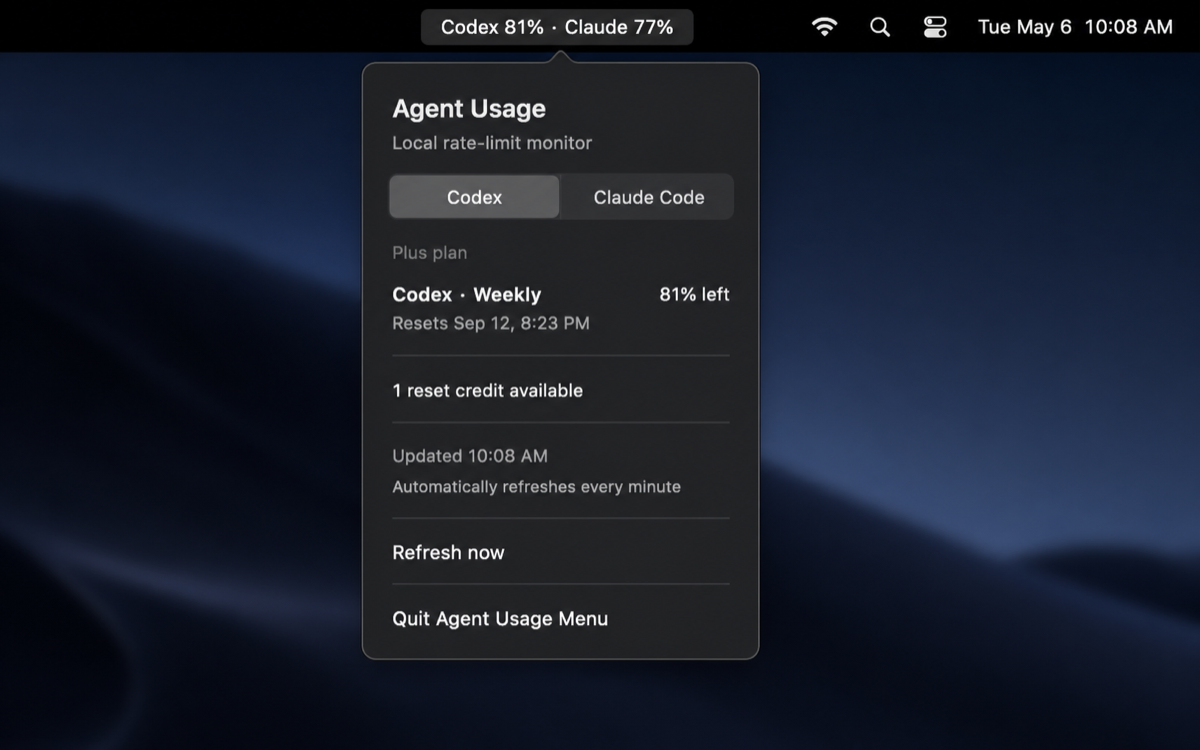
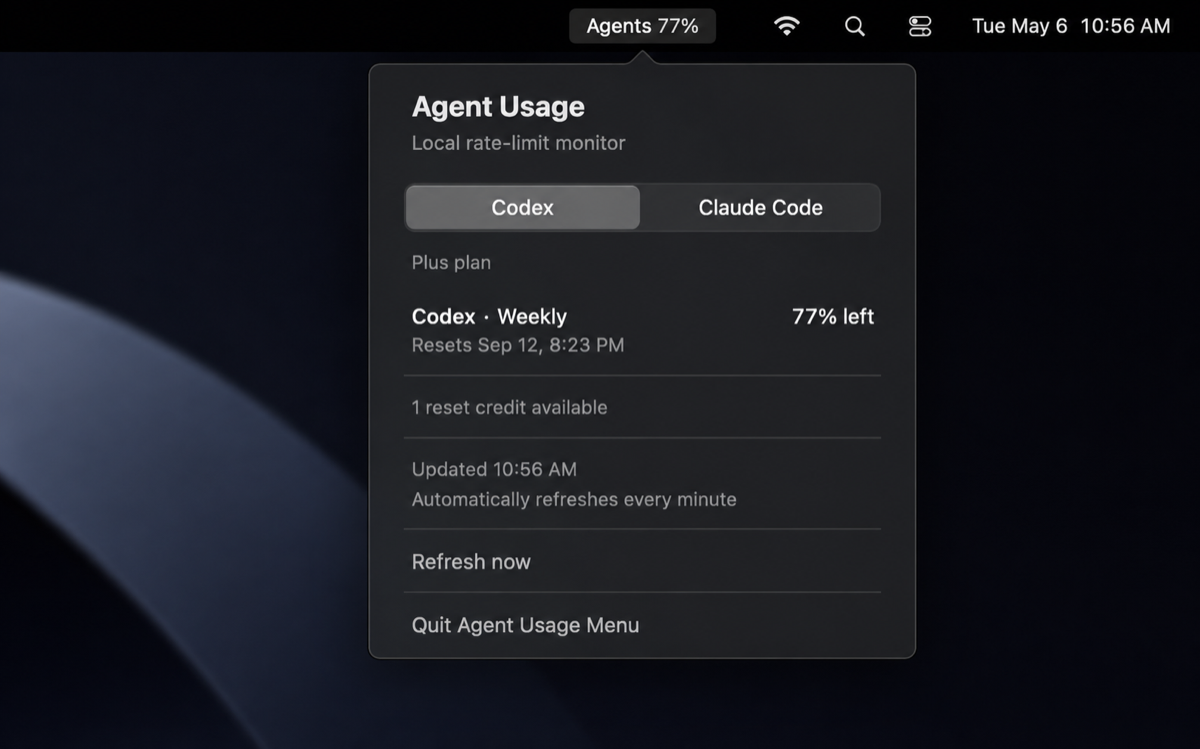
Add persistent agent launcher and npm package

diff --git a/Sources/CodexUsageMenu/main.swift b/Sources/CodexUsageMenu/main.swift
@@ -1,9 +1,10 @@
 import AppKit
+import Darwin
 import Foundation
 import SwiftUI
 
 @main
-struct CodexUsageMenuApp: App {
+struct AgentUsageMenuApp: App {
     @StateObject private var monitor = UsageMonitor()
 
     var body: some Scene {
@@ -84,6 +85,8 @@ private struct UsageMenu: View {
         }
         if let claude = monitor.claudeSnapshot {
             available.append(Provider(id: .claude, presentation: claude.presentation))
+        } else if monitor.isClaudeCodeInstalled {
+            available.append(Provider(id: .claude, presentation: ClaudeUsageStore.waitingPresentation))
         }
         return available
     }
@@ -114,27 +117,35 @@ private struct UsageMenu: View {
                     .padding(.top, 14)
             }
 
-            ForEach(provider.windows) { window in
-                VStack(alignment: .leading, spacing: 4) {
-                    HStack(alignment: .firstTextBaseline) {
-                        Text(window.name)
-                            .font(.system(size: 14, weight: .semibold))
-                        Spacer()
-                        Text("\(window.remainingPercent)% left")
-                            .font(.system(size: 14, weight: .semibold))
-                            .monospacedDigit()
+            if provider.windows.isEmpty {
+                Text(provider.emptyMessage ?? "Usage is not available yet.")
+                    .font(.system(size: 13))
+                    .foregroundStyle(.secondary)
+                    .frame(maxWidth: .infinity, alignment: .leading)
+                    .padding(.vertical, 18)
+            } else {
+                ForEach(provider.windows) { window in
+                    VStack(alignment: .leading, spacing: 4) {
+                        HStack(alignment: .firstTextBaseline) {
+                            Text(window.name)
+                                .font(.system(size: 14, weight: .semibold))
+                            Spacer()
+                            Text("\(window.remainingPercent)% left")
+                                .font(.system(size: 14, weight: .semibold))
+                                .monospacedDigit()
+                        }
+                        if let resetText = window.resetText {
+                            Text(resetText)
+                                .font(.system(size: 12))
+                                .foregroundStyle(.secondary)
+                        }
                     }
-                    if let resetText = window.resetText {
-                        Text(resetText)
-                            .font(.system(size: 12))
-                            .foregroundStyle(.secondary)
-                    }
-                }
-                .frame(maxWidth: .infinity, alignment: .leading)
-                .padding(.vertical, 15)
+                    .frame(maxWidth: .infinity, alignment: .leading)
+                    .padding(.vertical, 15)
 
-                if window.id != provider.windows.last?.id {
-                    Divider()
+                    if window.id != provider.windows.last?.id {
+                        Divider()
+                    }
                 }
             }
 
@@ -147,18 +158,22 @@ private struct UsageMenu: View {
                     .padding(.vertical, 12)
             }
 
-            Divider()
-            Text(provider.updatedLabel + " " + provider.updatedAt.formatted(date: .omitted, time: .shortened))
-                .font(.system(size: 12))
-                .foregroundStyle(.secondary)
-                .frame(maxWidth: .infinity, alignment: .leading)
-                .padding(.top, 12)
-            Text(provider.refreshLabel)
-                .font(.system(size: 12))
-                .foregroundStyle(.secondary)
-                .frame(maxWidth: .infinity, alignment: .leading)
-                .padding(.top, 4)
-                .padding(.bottom, 12)
+            if let updatedLabel = provider.updatedLabel, let updatedAt = provider.updatedAt {
+                Divider()
+                Text(updatedLabel + " " + updatedAt.formatted(date: .omitted, time: .shortened))
+                    .font(.system(size: 12))
+                    .foregroundStyle(.secondary)
+                    .frame(maxWidth: .infinity, alignment: .leading)
+                    .padding(.top, 12)
+            }
+            if let refreshLabel = provider.refreshLabel {
+                Text(refreshLabel)
+                    .font(.system(size: 12))
+                    .foregroundStyle(.secondary)
+                    .frame(maxWidth: .infinity, alignment: .leading)
+                    .padding(.top, provider.updatedAt == nil ? 0 : 4)
+                    .padding(.bottom, 12)
+            }
         }
         .padding(.horizontal, 18)
     }
@@ -192,12 +207,22 @@ private struct UsageMenu: View {
                 .padding(.horizontal, 18)
                 .padding(.vertical, 13)
             Divider()
-            Button("Quit Agent Usage Menu") { NSApplication.shared.terminate(nil) }
+            Button("Quit Agent Usage Menu") { quitLaunchAgent() }
                 .buttonStyle(.plain)
                 .font(.system(size: 14))
                 .frame(maxWidth: .infinity, alignment: .leading)
                 .padding(.horizontal, 18)
                 .padding(.vertical, 13)
+        }
+    }
+
+    private func quitLaunchAgent() {
+        let process = Process()
+        process.executableURL = URL(fileURLWithPath: "/bin/launchctl")
+        process.arguments = ["bootout", "gui/\(getuid())/com.agentusagemenu.app"]
+        try? process.run()
+        DispatchQueue.main.asyncAfter(deadline: .now() + 0.2) {
+            NSApplication.shared.terminate(nil)
         }
     }
 }
@@ -206,6 +231,7 @@ private struct UsageMenu: View {
 final class UsageMonitor: ObservableObject {
     @Published private(set) var codexSnapshot: UsageSnapshot?
     @Published private(set) var claudeSnapshot: ClaudeUsageSnapshot?
+    @Published private(set) var isClaudeCodeInstalled = ClaudeUsageStore.isClaudeCodeInstalled
     @Published private(set) var errorMessage: String?
     @Published private(set) var isRefreshing = false
 
@@ -222,20 +248,21 @@ final class UsageMonitor: ObservableObject {
     }
 
     var menuBarTitle: String {
-        let titles = [
-            codexSnapshot?.windows.map(\.remainingPercent).min().map { "Codex \($0)%" },
-            claudeSnapshot?.windows.map(\.remainingPercent).min().map { "Claude \($0)%" }
-        ].compactMap { $0 }
-        guard !titles.isEmpty else {
-            return errorMessage == nil ? "Codex …" : "Codex —"
+        let remaining = [
+            codexSnapshot?.windows.map(\.remainingPercent).min(),
+            claudeSnapshot?.windows.map(\.remainingPercent).min()
+        ].compactMap { $0 }.min()
+        guard let remaining else {
+            return errorMessage == nil ? "Agents …" : "Agents —"
         }
-        return titles.joined(separator: " · ")
+        return "Agents \(remaining)%"
     }
 
     func refresh() {
         guard !isRefreshing else { return }
         isRefreshing = true
         claudeSnapshot = ClaudeUsageStore.load()
+        isClaudeCodeInstalled = ClaudeUsageStore.isClaudeCodeInstalled
 
         Task {
             do {
@@ -278,7 +305,8 @@ struct UsageSnapshot: Sendable {
             availableResetCredits: availableResetCredits,
             updatedAt: updatedAt,
             updatedLabel: "Updated",
-            refreshLabel: "Automatically refreshes every minute"
+            refreshLabel: "Automatically refreshes every minute",
+            emptyMessage: nil
         )
     }
 
@@ -329,9 +357,10 @@ struct ProviderPresentation: Sendable {
     let detail: String?
     let windows: [UsageSnapshot.Window]
     let availableResetCredits: Int
-    let updatedAt: Date
-    let updatedLabel: String
-    let refreshLabel: String
+    let updatedAt: Date?
+    let updatedLabel: String?
+    let refreshLabel: String?
+    let emptyMessage: String?
 }
 
 struct ClaudeUsageSnapshot: Sendable {
@@ -346,7 +375,8 @@ struct ClaudeUsageSnapshot: Sendable {
             availableResetCredits: 0,
             updatedAt: capturedAt,
             updatedLabel: "Captured",
-            refreshLabel: "Updates while Claude Code is active"
+            refreshLabel: "Updates while Claude Code is active",
+            emptyMessage: nil
         )
     }
 }
@@ -354,14 +384,37 @@ struct ClaudeUsageSnapshot: Sendable {
 struct ClaudeUsageStore {
     private static let fileName = "claude-rate-limits.json"
 
+    static var isClaudeCodeInstalled: Bool {
+        let candidates = [
+            "/opt/homebrew/bin/claude",
+            "/usr/local/bin/claude",
+            NSHomeDirectory() + "/.local/bin/claude"
+        ]
+        return candidates.contains { FileManager.default.isExecutableFile(atPath: $0) }
+    }
+
+    static var waitingPresentation: ProviderPresentation {
+        ProviderPresentation(
+            name: "Claude Code",
+            detail: "Waiting for session data",
+            windows: [],
+            availableResetCredits: 0,
+            updatedAt: nil,
+            updatedLabel: nil,
+            refreshLabel: "The tab updates after Claude Code receives a response.",
+            emptyMessage: "Claude Code is installed. Usage has not been captured yet."
+        )
+    }
+
     static func load() -> ClaudeUsageSnapshot? {
         guard let applicationSupport = FileManager.default.urls(for: .applicationSupportDirectory, in: .userDomainMask).first else {
             return nil
         }
-        let url = applicationSupport
-            .appendingPathComponent("CodexUsageMenu", isDirectory: true)
-            .appendingPathComponent(fileName)
-        guard let data = try? Data(contentsOf: url) else { return nil }
+        let directories = ["AgentUsageMenu", "CodexUsageMenu"]
+        guard let data = directories.lazy
+            .map({ applicationSupport.appendingPathComponent($0, isDirectory: true).appendingPathComponent(fileName) })
+            .compactMap({ try? Data(contentsOf: $0) })
+            .first else { return nil }
 
         let decoder = JSONDecoder()
         decoder.dateDecodingStrategy = .iso8601

diff --git a/bin/agent-usage-menu.js b/bin/agent-usage-menu.js
@@ -1,0 +1,32 @@
+#!/usr/bin/env node
+
+const { spawnSync } = require("node:child_process");
+const { resolve } = require("node:path");
+
+const root = resolve(__dirname, "..");
+const [command = "install", ...args] = process.argv.slice(2);
+
+function run(commandPath, commandArgs) {
+  const result = spawnSync(commandPath, commandArgs, { cwd: root, stdio: "inherit" });
+  process.exit(result.status ?? 1);
+}
+
+switch (command) {
+  case "install":
+    run("/bin/zsh", [resolve(root, "scripts/install.sh"), ...args]);
+    break;
+  case "uninstall":
+    run("/bin/zsh", [resolve(root, "scripts/uninstall.sh")]);
+    break;
+  case "start":
+    run("/bin/zsh", [resolve(root, "scripts/install.sh")]);
+    break;
+  case "help":
+  case "--help":
+  case "-h":
+    console.log("Usage: agent-usage-menu [install [--claude] | start | uninstall]");
+    break;
+  default:
+    console.error(`Unknown command: ${command}`);
+    process.exit(64);
+}

diff --git a/Sources/ClaudeUsageCapture/main.swift b/Sources/ClaudeUsageCapture/main.swift
@@ -97,7 +97,7 @@ struct ClaudeUsageCapture {
         guard let applicationSupport = FileManager.default.urls(for: .applicationSupportDirectory, in: .userDomainMask).first else {
             throw CaptureError.applicationSupportUnavailable
         }
-        return applicationSupport.appendingPathComponent("CodexUsageMenu", isDirectory: true)
+        return applicationSupport.appendingPathComponent("AgentUsageMenu", isDirectory: true)
     }
 }
 

diff --git a/Package.swift b/Package.swift
@@ -2,10 +2,10 @@
 import PackageDescription
 
 let package = Package(
-    name: "CodexUsageMenu",
+    name: "AgentUsageMenu",
     platforms: [.macOS(.v13)],
     products: [
-        .executable(name: "CodexUsageMenu", targets: ["CodexUsageMenu"]),
+        .executable(name: "AgentUsageMenu", targets: ["CodexUsageMenu"]),
         .executable(name: "ClaudeUsageCapture", targets: ["ClaudeUsageCapture"])
     ],
     targets: [

diff --git a/README.md b/README.md
@@ -1,6 +1,6 @@
 # Agent Usage Menu
 
-A tiny native macOS menu-bar app that keeps your Codex and Claude Code usage visible. Choose either provider or both: when both are available, their lowest remaining quotas appear together in the menu bar (`Codex 84% · Claude 77%`).
+A tiny native macOS menu-bar app that keeps Codex and Claude Code usage visible. The single **Agents** menu-bar label opens one tabbed popover: Codex is selected by default when both are available, while a one-provider setup shows only that provider.
 
 It uses the Codex CLI and Claude Code already signed in on your Mac; it does not ask for, transmit, or save credentials.
 
@@ -23,6 +23,21 @@ Codex and Claude Code are independently optional: install the utility once and u
 
 ## Install
 
+### npm (recommended)
+
+```zsh
+npm install -g agent-usage-menu
+agent-usage-menu install
+```
+
+To add Claude Code capture:
+
+```zsh
+agent-usage-menu install --claude
+```
+
+### From source
+
 ```zsh
 git clone https://github.com/saivarun1410/agent-usage-menu.git
 cd agent-usage-menu
@@ -35,12 +50,20 @@ To add Claude Code support at install time, use:
 ./scripts/install.sh --claude
 ```
 
-The installer compiles the app, adds it to your user LaunchAgents, and starts it. You only need to install it once: macOS starts it automatically after every future login and keeps it running quietly in the menu bar. You do not need to keep a terminal open or run a command again.
+The installer compiles the app, adds it to your user LaunchAgents, and starts it. You only need to install it once: macOS starts it automatically after every future login and relaunches it if it unexpectedly exits. You do not need to keep a terminal open or run a command again.
 
-Choosing **Quit Agent Usage Menu** from the menu stops monitoring until you launch the app again or log in next time. To remove it permanently:
+Choosing **Quit Agent Usage Menu** from the popover is the normal way to stop monitoring; it unloads the launch agent. `swift run AgentUsageMenu` is only a development command, so stopping that Terminal process also stops that temporary copy.
+
+To remove the installed utility permanently:
 
 ```zsh
 ./scripts/uninstall.sh
+```
+
+Or, for the npm install:
+
+```zsh
+agent-usage-menu uninstall
 ```
 
 ## How it works
@@ -55,6 +78,8 @@ This uses a local Codex app-server capability rather than scraping a web page. I
 
 Claude Code publishes 5-hour and 7-day rate-limit data through its official [status-line JSON payload](https://code.claude.com/docs/en/statusline). With `--claude`, this utility installs a small local status-line command that saves only those percentages and reset timestamps; the menu app reads that local record each minute. Claude Code updates the record while a Claude session is active, so the popover shows when it was last captured.
 
+When Claude Code is installed but has not yet returned a response in a session, its tab is still shown with a waiting state. It fills in after the first rate-limit payload arrives.
+
 Claude Code allows one `statusLine` command. To protect custom setups, the installer never replaces an existing one. If you already use a custom status line, it leaves it intact and prints an integration note. Adapt that command to forward its JSON input to `~/.local/bin/claude-usage-capture` before it produces its usual output. The capture helper accepts the official JSON on standard input and writes its own short status line to standard output.
 
 The Claude Code payload contains the 5-hour and 7-day windows; a monthly account allowance is not included, so it is not displayed here.
@@ -63,7 +88,7 @@ The Claude Code payload contains the 5-hour and 7-day windows; a monthly account
 
 ```zsh
 swift test
-swift run CodexUsageMenu
+swift run AgentUsageMenu
 ```
 
 ## Privacy
